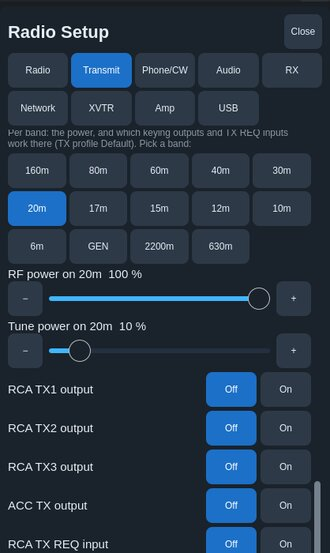
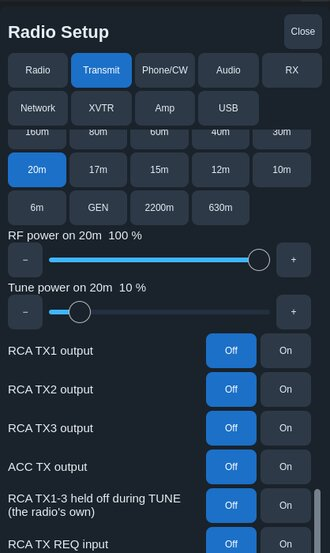
mobile: build 158 / Android beta 71 notes, manual, roadmap and pictures
TestFlight notes (3994 characters) and Android beta 71 notes: TUNE's
exact restore, the radio's own TUNE suppression on 4.3+, Sound from the
radio, the FTx QSO in the Log tab, the measured TX power and Aurora's
RF power in %. The manual's Radio Setup › Transmit, Controls › Audio and
FTx passages; release.env android-beta-71; the roadmap's build 158
entry, 31 / 34 / 38 / 39 done, 25 left with #6493, #6498 and DFM.
tab-audio, tab-tx and setup-txband re-rendered on the FLEX.

Notes: changed
Manual: changed
Roadmap: changed
Screenshots: changed
iOS: changed
Android: changed

Claude-Session: https://claude.ai/code/session_01KANojkzU64KoozGDbNDzRK

diff --git a/mobile/ROADMAP.md b/mobile/ROADMAP.md
@@ -5,6 +5,8 @@ queued, waiting on someone, or still to verify follows.
 
 ## Next build
 
+Build 158 / beta 71 (the user, 2026-11-07: "Mennään ehdottamallasi buildillä", the critical items first, "not every piece of feedback has to be built"; no power badge yet): **25 (#6526 part)** TUNE's Inhibit during TUNE restores only the outputs it turned off (RadioModel: the exact fields held, a second start sends them again and never skips the inhibit, another band gives the held one back first, a TX Band Settings edit during TUNE takes its field over; tests/tune_inhibit_restore_test, 10 checks); on the FLEX (--tune-inhibit-test, 5 W, 14.250, 1.5 s) the 20 m outputs, all off with all four inhibits on, stayed off, where the old restore turned all four on. **31** the radio's own per-band tune_tx_suppress (4.3+, reported by the user's FLEX) parsed and shown in TX band settings only where reported; the echo audit set and restored it on 630 m (11 of 11). The client-side inhibit is kept on 4.3+ too (upstream's ownership switch would have turned it off silently). **34** Controls › Audio › Sound from This device / The radio (PcAudioEnabled: the remote_audio_rx stream removed or created, no reconnect); the microphone is not switched with it: on the FLEX the radio's mic input proved shared with the other station on it (ours to MIC changed it there too, and it came back to PC), so TX › Use the radio's microphone is the user's choice. --audio-route-test: stream removed and created again, mic left on PC. **38** the FTx partner into the Log tab when the QSO starts (call, FT8 / FT4, reports in qsoDefaults). **39** the log's TX power from the last transmission's measured peak (a linked amplifier's in Operate; unknown with one otherwise), the setting as watts only on a 100 W radio, an Aurora's RF power shown in % (model AU-, as the desktop's power scale). Left of 25: #6493, #6498, DFM.
+
 Build 157 / beta 70 (the user, 2026-11-05: "1,2,11,20,26" from the numbered roadmap, after the screen reader test of build 156): **26** Android symbols: Noto Sans Symbols 2 and Noto Sans Math subsets bundled (SIL OFL, mobile/fonts) and registered as fallbacks, tested with fontconfig limited to Noto Sans (boxes for ⇄ ⌥ ⋯ without, all drawn with; the startup check "missing: none"). **1** Felt taps: a FineSlider's drag ticks (each step up to 20 steps, else each tenth and the ends, 40 ms apart) and View › Felt taps (phones) off / on. **2** First-run hints: four cards once after the first connect (waiting while the setup offer or any panel is open), View › Hints › Show again; tested by taps through all four, the next connect without them, Show again and Skip, the page keyboard back each time. **11** Radio Setup › Amp by manufacturer: 4O3A / RF-KIT row, a maker in use always shown and first; tested with the RF2K-S stand-in. **20** eSSB: De-ess, Tube, EVO, Reverb and the chain's Order (Change: ▲ / ▼ per stage), on the engine's existing chain; tested by taps (Tube, model, EVO, order up and back), put back after. Also build 156's screen reader tuning and notices taken out (the user: too unfinished). Focus sweep: 0 controls kept the keyboard (1366x1024 all sections pinned, 430x932 every drawer tab). To verify on devices: the symbols on the OnePlus, the ticks on a phone, eSSB's sound with MON at low power.
 
 Build 156 / beta 69 (the user, 2026-11-05: Tyler Akerman K0OTC's two e-mails, "Laitetaan tylerin toiveet seuraavaan buildiin", then for the screen reader "Tähän buildiin 1 ja 4, PuJu"): **Band plan lock** (Tyler asked for the mode to follow the band plan with a switch; the user: the plan's modes as defaults that a chosen mode overrides, then, after Tyler answered that a switch the user turns off for contests is easiest, "a simple switch that always chooses", clear, easy to find and recognise, the modes limited by the plan and a notice when another is tried): in the mode chooser and View; PLAN by the mode (under it on a phone, the row's width kept; a tap turns it off). Tuning into another part of the plan below 30 MHz sets CW (CW part) or LSB under 10 MHz / USB above and on 60 m (phone or all-mode part), from any mode; a CW part allows CW, a phone part the voice modes (DIGU / DIGL with RADE on), an all-mode part any mode (FT8 on 7.074 in Region 1 stays DIGU), data / beacon / mixed parts any mode and set none; a refused choice or a spot's or memory's mode the part does not use gives a notice and the part's mode. Two earlier designs were built and tested on the FLEX first and dropped by the user: a hand-chosen mode remembered per part (a weekend's CW contest would leave the whole band CW), and a hold on the band. **CW sidetone level** (Tyler: the CW tones too loud with the volume up): Sidetone On and level on the CW tab (the radio's sidetone and mon_gain_cw, which the local sidetone plays at). **Screen reader tuning** (usability plan, Build C): the frequency is an adjustable control for VoiceOver / TalkBack (a swipe up or down tunes one step, the new frequency read; a double tap opens entry), and the mode and transmit on / off are announced. Tested on the FLEX: --mode-plan-test 26 steps on ARRL (US) and IARU Region 1; --echo-audit-only cwSidetone; --a11y-tune-test (new: the frequency's accessible role Slider, value in kHz, increase twice and decrease once each one step on 390x844 and 1180x820); rendered with the lock on at 390x844, 844x390, 320x693, 1180x820; state put back each time (the CW monitor level a test left at 85 put back to 80 with the new --engine-set). To verify: the lock on a tester's ARRL plan. VoiceOver / TalkBack tried by the user on the iPad and the OnePlus: not usable yet (see Later: Screen readers).
@@ -72,21 +74,21 @@ build. The sections below hold the details.
 22. **Display:** Upstream FFT Smooth and De-comb (Later)
 23. **Display:** 3D with 768 columns (Later)
 24. **Radio:** PTT latency measured over SmartLink and VPN, key to RF (Later)
-25. **Engine:** Upstream 26.10.3's engine fixes that fit: #6526 (TUNE restores only the outputs it inhibited), #6493 (interlock source lists such as MIC,VOX), #6498 (NRS level 0-50 on 4.3.16+, with the mobile DSP slider taking its maximum from the engine), and DFM added to the modes without squelch. Reviewed 2026-11-05 against our branch: none applies cleanly (RadioModel / SliceModel conflicts), each to be ported by hand and checked on the radio at low power. #6464 (display Auto squelch per slice) left out: desktop display only, it changes SliceModel under the mobile squelch (Later: ideas)
+25. **Engine:** Upstream 26.10.3's engine fixes that fit: ~~#6526 (TUNE restores only the outputs it inhibited)~~ *in build 158*, #6493 (interlock source lists such as MIC,VOX), #6498 (NRS level 0-50 on 4.3.16+, with the mobile DSP slider taking its maximum from the engine), and DFM added to the modes without squelch. Reviewed 2026-11-05 against our branch: none applies cleanly (RadioModel / SliceModel conflicts), each to be ported by hand and checked on the radio at low power. #6464 (display Auto squelch per slice) left out: desktop display only, it changes SliceModel under the mobile squelch (Later: ideas)
 26. ~~**Fixes:** Symbols missing on Android: the edit pencil and others~~ *in build 157*: subsets of Noto Sans Symbols 2 and Noto Sans Math bundled and registered as fallbacks on Android
 27. **Fixes:** Screen readers done properly: dialogs that keep the reader inside, named icon buttons, the spectrum not tuned by a double tap (Later)
 28. **Fixes:** The Connect page freeze on the OnePlus outer screen (seen once, not reproduced)
 29. **Verify:** LAN discovery on Android at the radio's own network (Waiting)
 30. **Verify:** Build 155: Display Zoom on an iPhone, two Android phones at once, big text on a Mac
-31. **Devices:** TUNE RCA suppression per band on SmartSDR 4.3+ (upstream #6524), only with the mobile side: on 4.3+ the radio owns RCA TX1-3 suppression per band and the engine stops the client-side inhibit, so Radio Setup › Transmit › Inhibit during TUNE: RCA TX1/2/3 would silently stop working (upstream has no migration or notice; the radio's default is no suppression, so an amplifier could key on the tune carrier). Needs an RCA off / TUNE column in TX Band Settings, Inhibit during TUNE reduced to ACC on 4.3+, the old choices carried over or a clear notice. With item 11.
+31. ~~**Devices:** TUNE RCA suppression per band on SmartSDR 4.3+ (upstream #6524)~~ *in build 158*: the per-band column where the radio reports it; the client-side inhibit stays
 32. **Radio:** The radio's Auto AGC-T (upstream #6508), only with the mobile side: an Auto choice by the AGC-T slider, the slider and the per-mode AGC (voice slow, data / CW fast) not overriding the radio's Auto unnoticed.
 33. **Radio:** Voice keyer repeat, Robin Bishop (FB, 2026-11-05: "handy when contesting or things like POTA"): a slot sent again every N seconds (the gap set by the user) until PTT, Stop, another macro or any key; the CW memories the same way. The repeat shown on the Macros button / panel so it is never left running unseen.
-34. **Audio:** Audio on the radio's own outputs, Dennis Daniel KM6DF (e-mail, 2026-11-06: with a headset on the radio it cannot be used while OksaSDR runs): a switch between the phone's audio and the radio's (the engine's PcAudioEnabled, the desktop's PC audio), back again without reconnecting; the phone's microphone or the radio's for transmit to follow the choice or be set apart.
+34. ~~**Audio:** Audio on the radio's own outputs, Dennis Daniel KM6DF~~ *in build 158*: Controls › Audio › Sound from; the mic switched only by the user (shared input)
 35. **Usability:** A log report straight to the developer, Dennis Daniel KM6DF (e-mail, 2026-11-06: the address is not filled in): Log › Send to the developer opens a mail with the address, subject (app, build, device) and the log attached (iOS MFMailComposeViewController, Android ACTION_SEND with EXTRA_EMAIL); Share stays for everything else.
 36. **Display:** The RF power in sight, Evgeny R0ACS (e-mail with a marked screenshot, 2026-11-06): the set power by the TX badge or in the TX slice's chip, a tap there going to the power slider. The radio's rfpower is a 0-100 setting, not power out: watts only on a 100 W radio; on an Aurora (AU-510/520, 500 W PA) a percentage (Sloan Davis: 29 gave 142 W); with an amplifier the drive. So the badge shows "29 W" on a 100 W radio, "29 %" on an Aurora, "29 %" with AMP while an amplifier is in Operate; measured power stays on the meter and Last TX.
-39. **Fixes:** TX power in the log and on screen wrong on an Aurora and with an amplifier (found from Sloan Davis's build 156 screenshot: Last TX 142.8 W, "RF power 29 W", logged 29 W): ADIF TX_PWR from the last transmission's measured peak (the amplifier's forward power when one is linked and in Operate, else the radio's), with no measurement the setting in watts on a 100 W radio, the percentage of 500 W on an Aurora, empty with an unknown amplifier; the TX and FTx tabs' "RF power %1 W" a percentage on an Aurora (the model by name, as the desktop's power scale: max_power_level reports 100 there).
+39. ~~**Fixes:** TX power in the log and on screen wrong on an Aurora and with an amplifier (Sloan Davis's screenshot)~~ *in build 158*: measured peak in the log; Aurora RF power in %
 37. **Radio:** Power per mode, Sloan Davis (TestFlight, build 156, FLEX Aurora AU-520: low drive gave 140 W on FT8, SSB wants 65-70 %): RF power remembered per mode group (voice, CW, digital), with an optional upper limit for digital modes, set as the mode changes and shown when it does.
-38. **FTx:** The station being worked in the Log tab during the QSO, Sloan Davis (TestFlight, build 156: FT8, and CW): the call, reports and grid filled as soon as a QSO starts (the CW tab's Call already fills it, Engine.workedCall), not only when it is logged.
+38. ~~**FTx:** The station being worked in the Log tab during the QSO, Sloan Davis~~ *in build 158*: call, mode and reports in the Log tab as the QSO starts
 
 ## Planned: the Digi tab, keyboard modes as one (asked 2026-11-02)
 

diff --git a/docs/mobile/MANUAL.md b/docs/mobile/MANUAL.md
@@ -1079,7 +1079,15 @@ seven.
   it. It shows what the current connection uses; a change applies from the
   next connection. **Audio buffer**: *Low latency* (100 ms), *Normal*
   (200 ms, the default) or *Smooth* (400 ms) — a longer buffer evens out a
-  jittery Wi-Fi or mobile link for a little more delay. **Audio output**:
+  jittery Wi-Fi or mobile link for a little more delay. **Sound from**:
+  *This device* (the default) or *The radio*, which plays receive audio on
+  the radio's own speaker, headphones and line out instead, e.g. with a
+  headset on the radio; switched at once, without reconnecting, and
+  remembered. The microphone does not switch with it, as the radio's mic
+  input is shared by every station on it: for the radio's microphone too,
+  TX tab › **Use the radio's microphone**, then key with the radio's PTT
+  or VOX (the app's PTT sends this device's microphone). **Audio output**
+  (with the sound on this device):
   *Auto* (the default) plays through a Bluetooth headset, with its
   microphone, when one is connected, else through the device's speaker
   and microphone; *Speaker* keeps receive audio and the microphone on the
@@ -1491,7 +1499,12 @@ seven.
   The app then runs the QSO as WSJT-X does (report, R-report, RR73 or RRR,
   73), stops after six tries without the reply it waits for, and writes the
   contact to the Log tab's log (MODE FT8, or MFSK / FT4) with the
-  frequency of the slice it was made on. **Halt TX** stops at once. PTT is
+  frequency of the slice it was made on. As soon as a QSO starts, the Log
+  tab shows its call (lookup and worked before), FT8 / FT4 as the mode and
+  the reports as they are exchanged; the app logs the QSO itself at the
+  end, so the Log button there is not needed. **TX power** in the log is
+  the last transmission's measured peak (an amplifier's output when a
+  linked PGXL or RF2K-S is in Operate), not the RF power setting. **Halt TX** stops at once. PTT is
   hidden while FT8 / FT4 decodes (the app keys the radio itself), and the
   display gets the room. Switching the FT8 slice to a voice or CW mode
   (by hand, or with a band button on a band the radio remembers in LSB /
@@ -1514,7 +1527,9 @@ seven.
   driven and the power out follows the TX tab's RF power; lower it to back
   off. Under it, **Last TX** shows the last transmission's peak power and
   SWR beside the band's RF power: well below it means the drive (TX level)
-  or the SWR; equal means the band's RF power is the limit. **Free** moves
+  or the SWR; equal means the band's RF power is the limit. On an Aurora
+  (AU-510 / AU-520) the RF power is a percentage of its 500 W, so it shows
+  as % (29 % is about 145 W out). **Free** moves
   the TX tone to the clearest spot between 200 and 2800 Hz among the
   stations heard in the last minute on the TX slice (in the CQ slot's
   period when Even or Odd is chosen); the status line says where. Decoding copes with audio
@@ -1752,15 +1767,22 @@ radio.
     ACC or the mic jack) sends the analog mic whatever the TX source.
   - **Inhibit during TUNE (this device)** — *RCA TX1*, *TX2*, *TX3*, *ACC
     TX*: the outputs held open while TUNE or the ATU transmits, so tuning
-    at low power does not key the amplifier; they close again after. This
-    device's setting (as the desktop's), not the radio's.
+    at low power does not key the amplifier. Only the outputs TUNE itself
+    turned off close again after: one that was off on the band stays off,
+    and an output you change in the TX band settings during TUNE is left as
+    you set it. This device's setting (as the desktop's), not the radio's.
   - **TX band settings** — pick a band (the one the radio is on is
     picked first), then for that band: **RF power** and **Tune power** (%),
     which outputs close there (**RCA TX1 / TX2 / TX3**, **ACC TX**: e.g.
     the amplifier's PTT only on the bands it covers), the **TX REQ inputs**
     that work there, **PTT inhibit** (no transmitting on that band) and
     **Hardware ALC** (the amplifier's ALC at the ALC jack). Turning a TX
-    REQ input on while it is set active high asks first.
+    REQ input on while it is set active high asks first. On a radio with
+    SmartSDR 4.3 or later, **RCA TX1-3 held off during TUNE (the radio's
+    own)**: the radio itself keeps the RCA outputs open while it tunes on
+    that band, kept in the radio for every program. It works alongside
+    *Inhibit during TUNE* above; either alone is enough. It is shown only
+    when the radio reports it.
 
   ![Radio Setup › Transmit: the TX band settings](manual/setup-txband.jpg)
 - **Phone/CW** — microphone bias and boost (the radio's own microphone

diff --git a/mobile/android/RELEASE_NOTES.md b/mobile/android/RELEASE_NOTES.md
@@ -1,6 +1,13 @@
-**OksaSDR for Android — beta 70.** A FlexRadio client for Android phones and tablets, built on the [AetherSDR](https://github.com/aethersdr/AetherSDR) engine: the same app as on the iPhone and iPad (TestFlight), from the same code.
+**OksaSDR for Android — beta 71.** A FlexRadio client for Android phones and tablets, built on the [AetherSDR](https://github.com/aethersdr/AetherSDR) engine: the same app as on the iPhone and iPad (TestFlight), from the same code.
 
-### New in beta 70
+### New in beta 71
+- **TUNE gives back only what it turned off**: with **Radio Setup › Transmit › Inhibit during TUNE** on, TUNE (or the ATU) opens the chosen RCA TX1-3 / ACC TX outputs so tuning does not key the amplifier, and afterwards turned on every chosen output, also one that was off on that band (no amplifier there), which then keyed on the next transmission. Now only the outputs TUNE itself turned off come back on, and an output changed in the TX band settings during TUNE is left as set. Tested on the FLEX at 5 W: the 20 m outputs, all off, stayed off (the old code turned all four on). The same fix as the desktop's upstream #6526.
+- **The radio's own TUNE suppression** (SmartSDR 4.3 or later): **Radio Setup › Transmit › TX band settings** has *RCA TX1-3 held off during TUNE (the radio's own)* per band, kept in the radio for every program. Shown only when the radio reports it; *Inhibit during TUNE* keeps working alongside it.
+- **Sound from the radio** (thanks Dennis KM6DF, whose headset is on the radio): **Controls › Audio › Sound from** *This device* or *The radio*; the radio then plays on its own speaker, headphones and line out, switched at once and remembered. The microphone stays as it is, since the radio's mic input is shared by every station on it (seen on the FLEX: another station's input changed with ours); **TX › Use the radio's microphone** switches it, and the radio's PTT or VOX keys it.
+- **The FT8 / FT4 QSO in the Log tab** (thanks Sloan Davis): the call (with lookup and worked before), FT8 / FT4 as the mode and the reports appear as soon as a QSO starts; the app still logs it by itself at the end.
+- **TX power in the log** (found from Sloan Davis's screenshot: an Aurora at RF power 29 sent 142 W and logged 29 W): the log's TX power is the last transmission's measured peak (a linked PGXL's or RF2K-S's output while it is in Operate), else the setting where it is watts. On an Aurora (AU-510 / AU-520) the RF power shows as %, a share of its 500 W.
+
+### Still new from beta 70
 - **Symbols no longer show as boxes** (the developer's OnePlus: the saved radio's edit button was an empty box, so where to edit the address was not clear): Android's own symbol font lacks ✎ ✕ ⌥ ⇄ and others. The app now carries small subsets of Noto Sans Symbols 2 and Noto Sans Math (SIL OFL) and uses them where the system's fonts have no symbol.
 - **eSSB: the rest of the desktop's TX chain**: each off until turned on, **De-ess** (tames the S sounds: threshold and band 4-7 kHz), **Tube** (warm saturation: drive, model A / B / C, mix), **EVO** (the exciter: *Air* for high harmonics, *Bass* for the low end, *Even* / *Odd*) and **Reverb** (mix, decay). **Order** shows the order the microphone goes through the stages; **Change** moves each up or down. Check the sound with MON or a second receiver at low power.
 - **Radio Setup › Amp by manufacturer**: tap **4O3A** (Power Genius XL, Tuner Genius XL, Antenna Genius) or **RF-KIT** (RF2K-S) to show its devices; a maker with a device set up reads *· in use*, always shows and comes first. Elecraft and SPE are planned.
